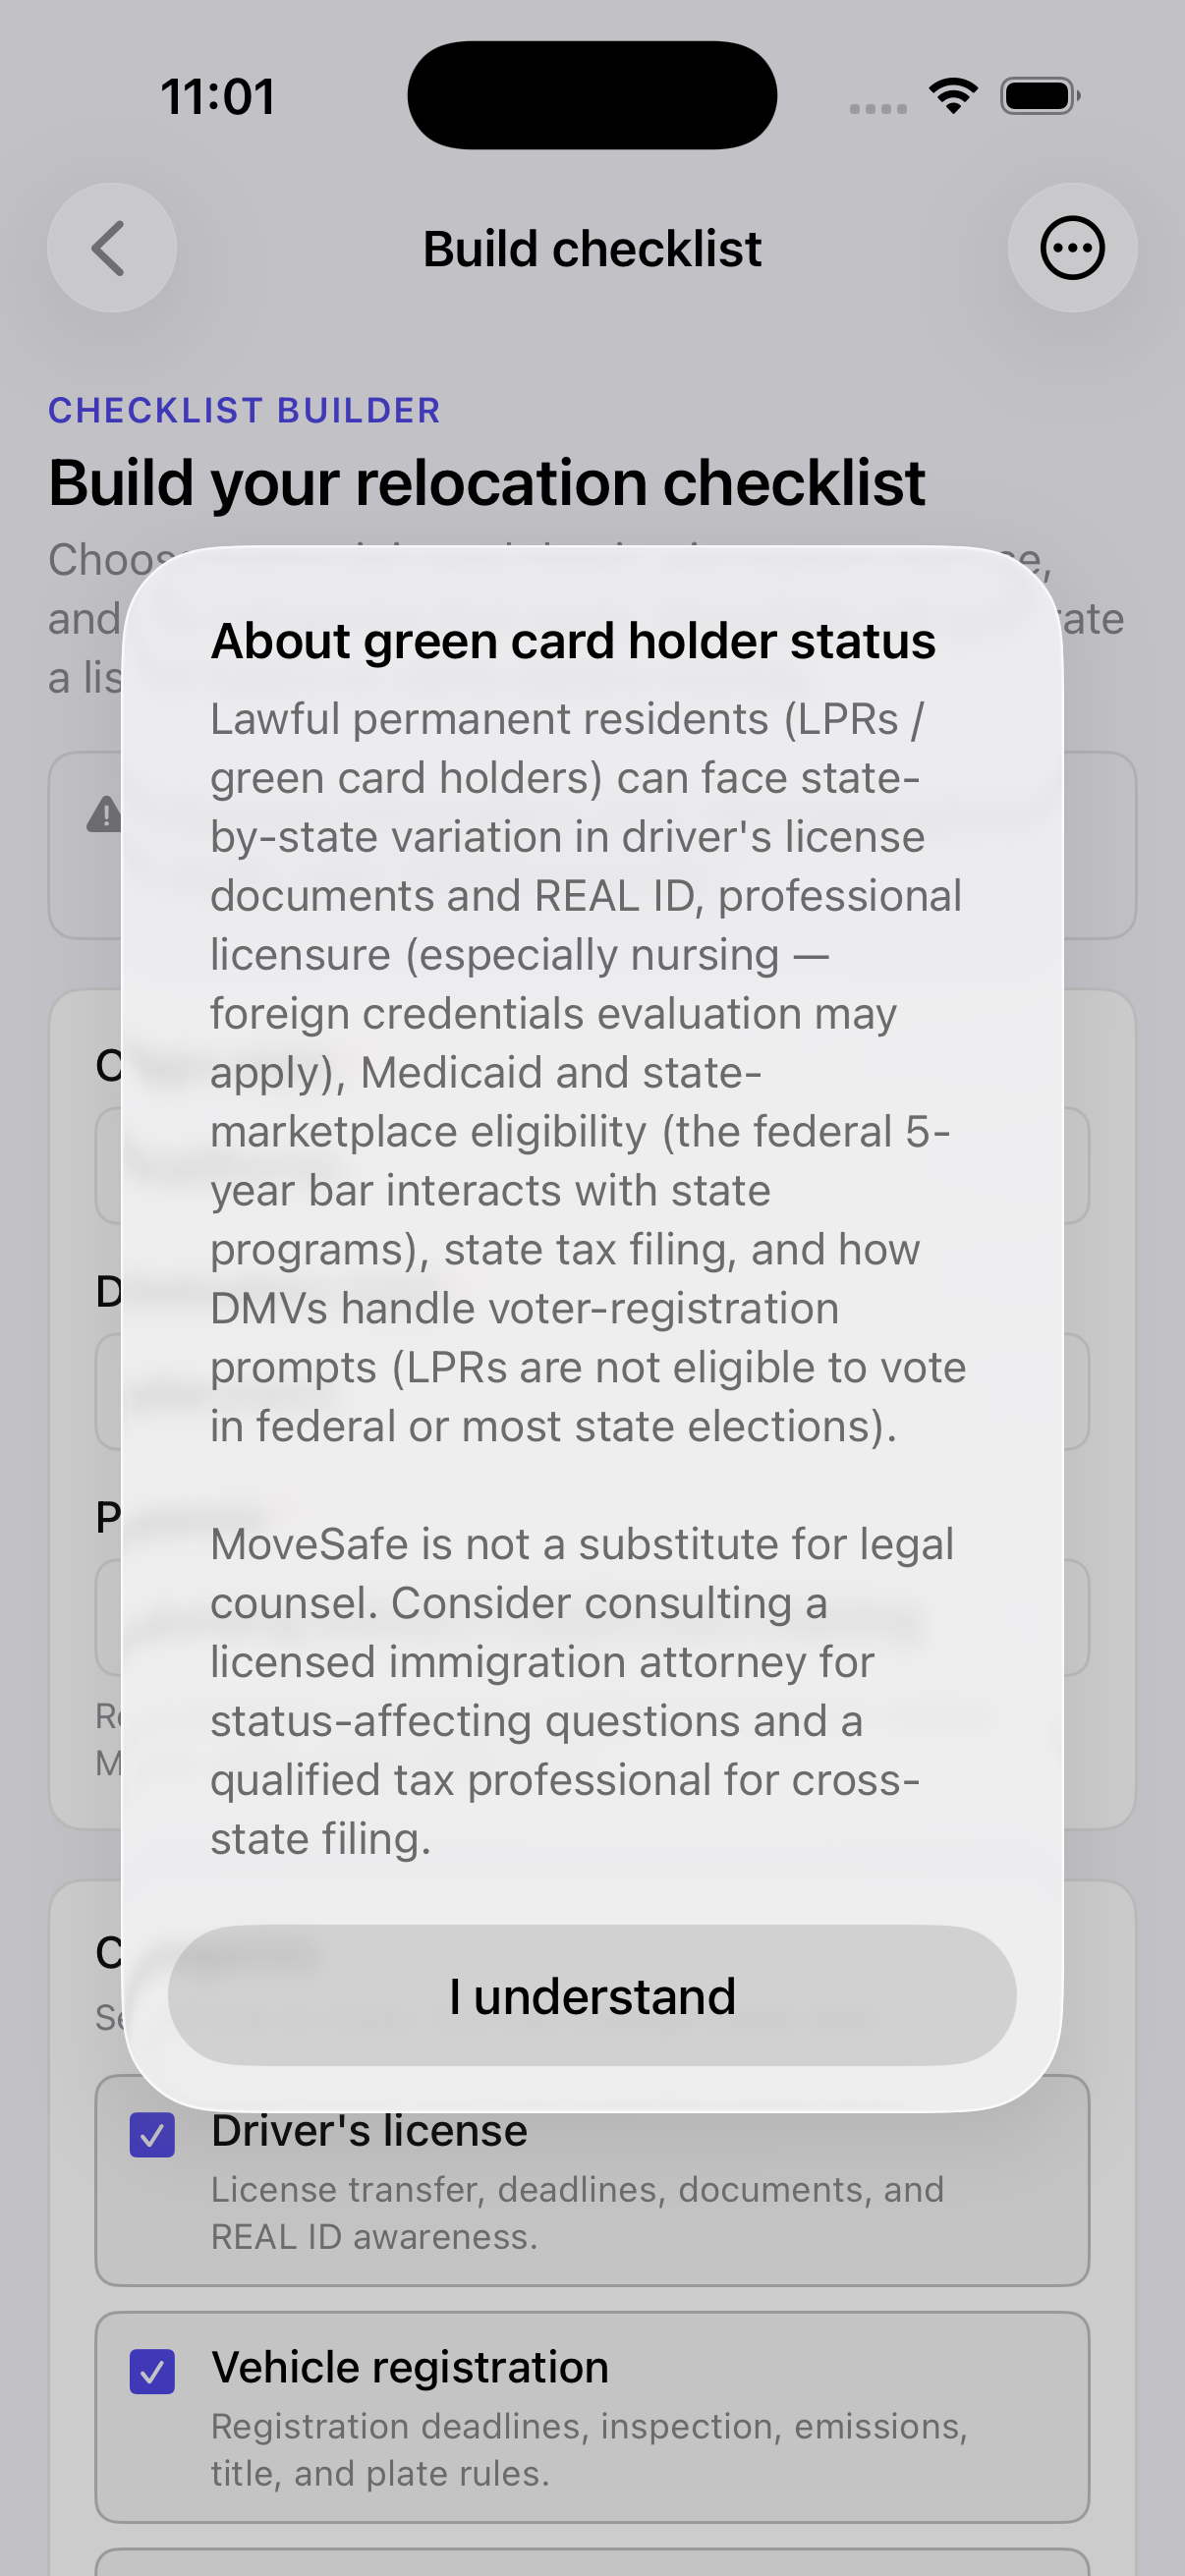
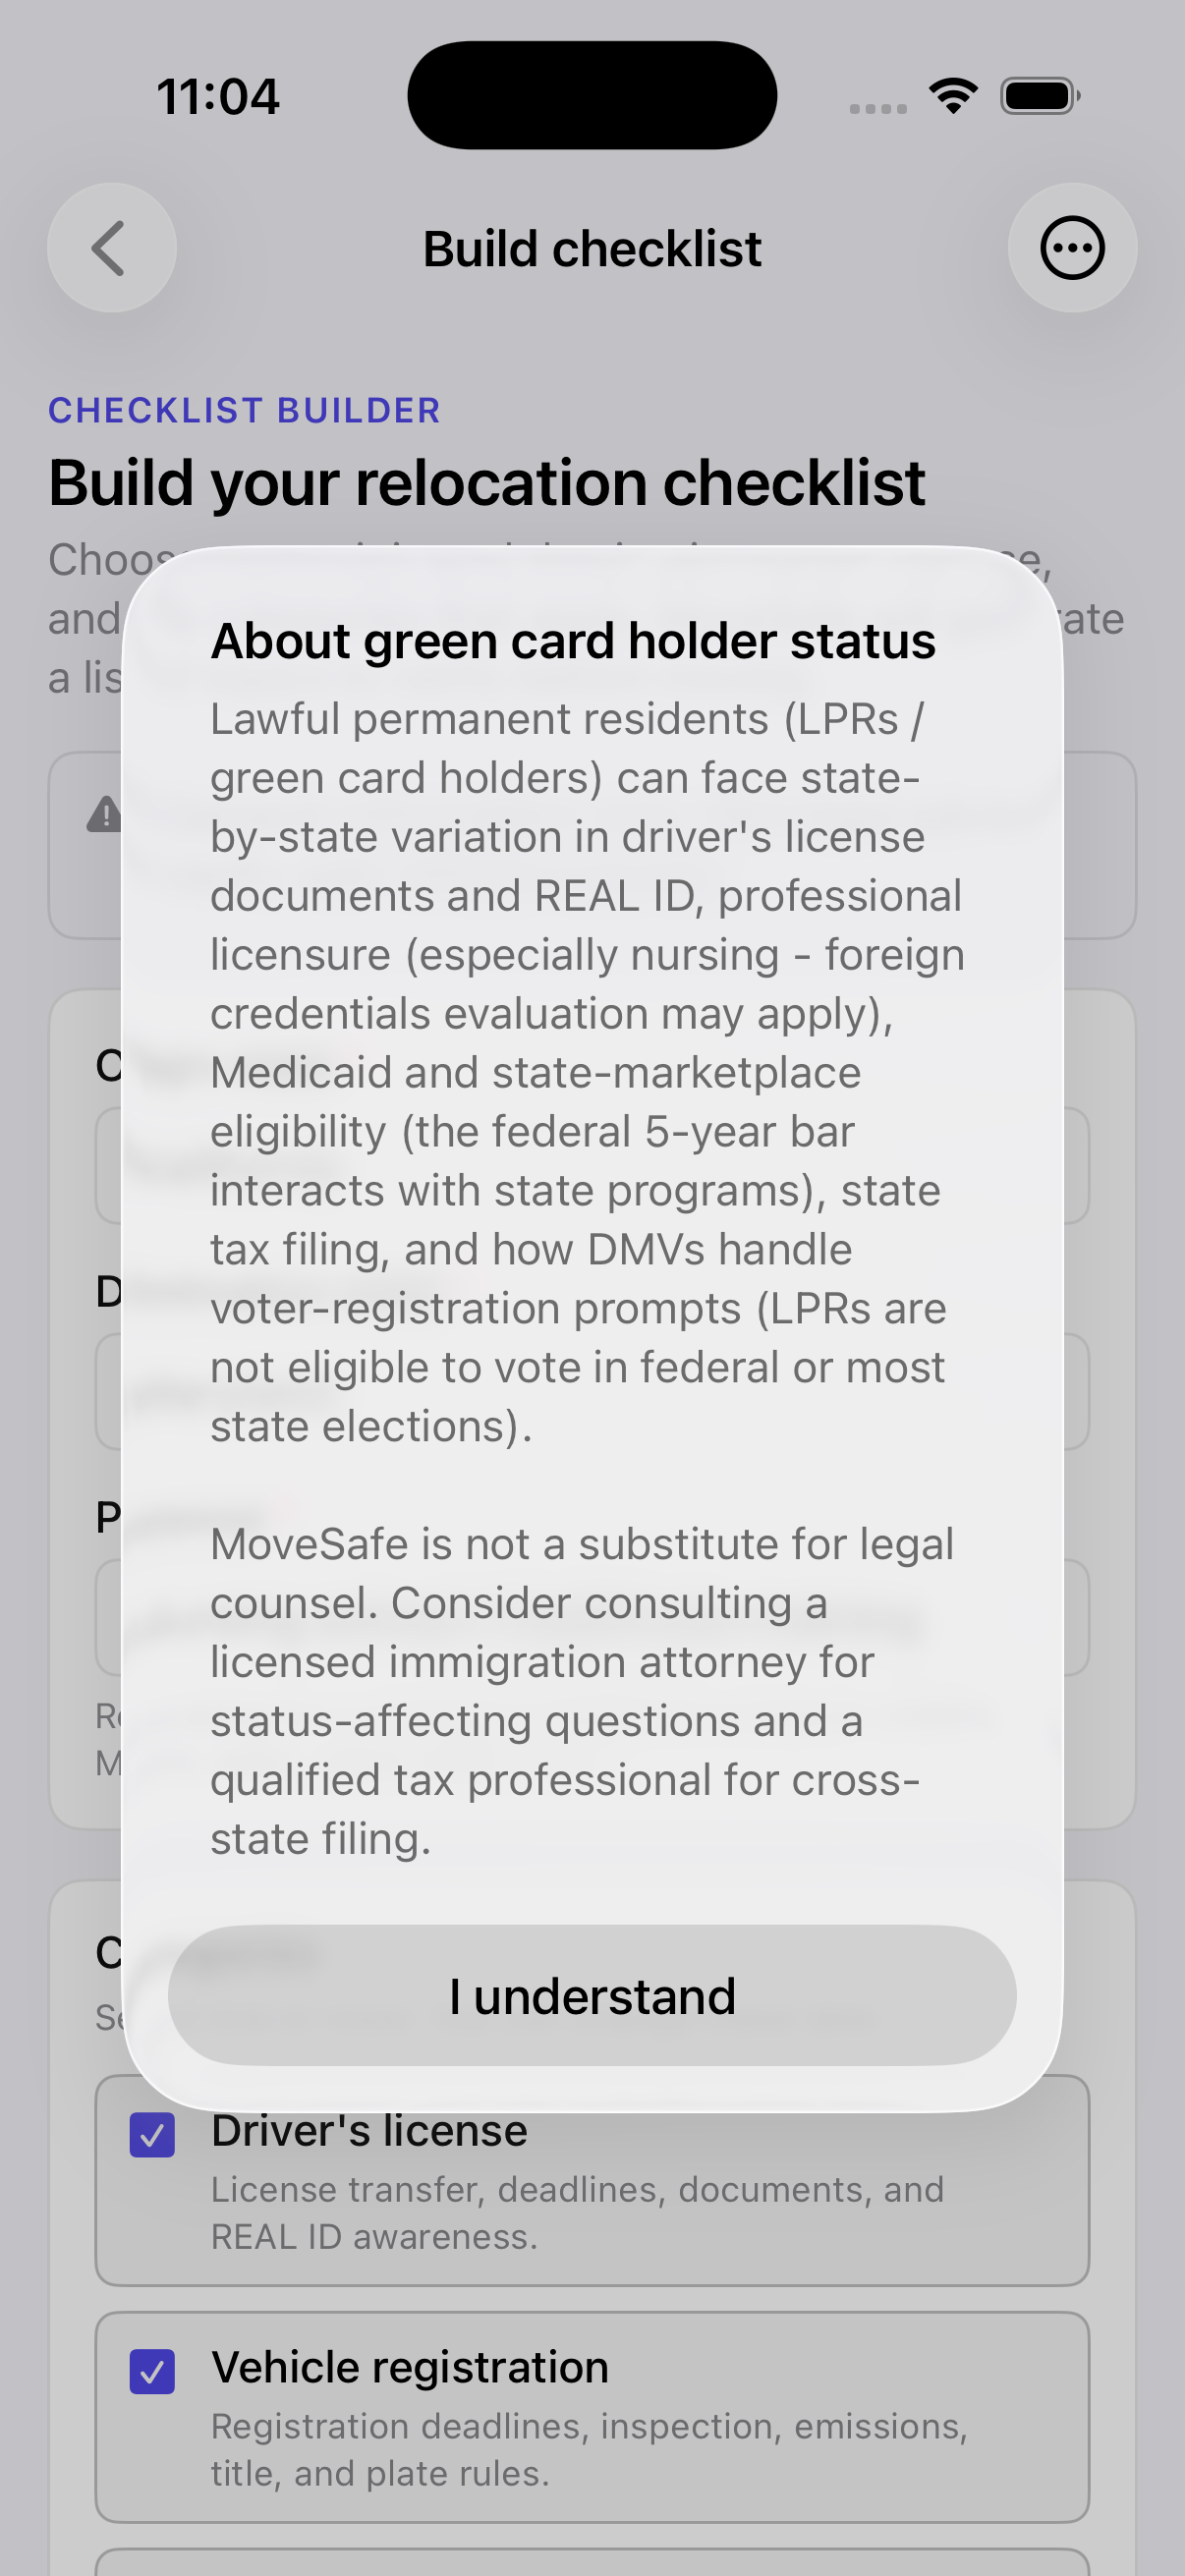
Replace all em dashes with hyphens
Project-wide mechanical substitution: U+2014 (em dash) -> U+002D (hyphen-
minus). 63 occurrences across 24 tracked files. Touches comments, copy in
string literals, README prose, and JSON notes. No structural code changes.

Files affected: README.md, ios/README.md, .gitignore, index.html, both
sets of seed-data files, both sets of safeCopy/utility files, several
view files, and the state-URL research JSON.

iOS build re-verified clean. Screenshots 03-results.png, 04-dreamer-alert.png,
and 05-greencard-alert.png regenerated because their rendered text changed.

Changed region(s): [[0.1841, 0.3707, 0.7977, 0.5561], [0.1227, 0.0309, 0.2454, 0.0618]]

diff --git a/ios/Sources/MoveSafe/Data/States.swift b/ios/Sources/MoveSafe/Data/States.swift
@@ -26,7 +26,7 @@ enum States {
     // the URL when the domain is the well-known, long-standing official one.
     //
     // A handful of fields remain "#" placeholders because no canonical URL
-    // could be confirmed in this pass — for example, Hawaii's motor vehicle
+    // could be confirmed in this pass - for example, Hawaii's motor vehicle
     // services are administered at the county level, so there's no single
     // state-wide DMV URL. Each placeholder is documented in `notes`.
 
@@ -131,7 +131,7 @@ enum States {
             taxAgencyUrl: "https://floridarevenue.com",
             housingAgencyUrl: "https://myfloridalegal.com",
             boardOfNursingUrl: "https://floridasnursing.gov",
-            notes: "Driver licensing under FLHSMV. Florida has no personal income tax — floridarevenue.com covers sales / corporate / etc."
+            notes: "Driver licensing under FLHSMV. Florida has no personal income tax - floridarevenue.com covers sales / corporate / etc."
         ),
         Row(
             name: "Georgia", abbreviation: "GA", slug: "georgia",
@@ -149,7 +149,7 @@ enum States {
             taxAgencyUrl: "https://tax.hawaii.gov",
             housingAgencyUrl: "https://ag.hawaii.gov",
             boardOfNursingUrl: "https://cca.hawaii.gov/pvl/boards/nursing",
-            notes: "Motor vehicle services in Hawaii are administered at the county level (Honolulu, Hawaii, Maui, Kauai) — there is no state-wide DMV URL. Nursing under DCCA Professional & Vocational Licensing."
+            notes: "Motor vehicle services in Hawaii are administered at the county level (Honolulu, Hawaii, Maui, Kauai) - there is no state-wide DMV URL. Nursing under DCCA Professional & Vocational Licensing."
         ),
         Row(
             name: "Idaho", abbreviation: "ID", slug: "idaho",
@@ -491,7 +491,7 @@ enum States {
             taxAgencyUrl: "https://www.revenue.wi.gov",
             housingAgencyUrl: "https://www.doj.state.wi.us",
             boardOfNursingUrl: "https://dsps.wi.gov/Pages/Professions/Default.aspx",
-            notes: "Wisconsin nursing licensure under DSPS (Department of Safety and Professional Services); the linked page is the general professions index — navigate to Registered Nurse."
+            notes: "Wisconsin nursing licensure under DSPS (Department of Safety and Professional Services); the linked page is the general professions index - navigate to Registered Nurse."
         ),
         Row(
             name: "Wyoming", abbreviation: "WY", slug: "wyoming",

diff --git a/ios/Sources/MoveSafe/Data/ChecklistItems.swift b/ios/Sources/MoveSafe/Data/ChecklistItems.swift
@@ -2,7 +2,7 @@ import Foundation
 
 // Items are state-agnostic by default. State-specific items can be added later
 // by setting originStateId / destinationStateId. All language follows the
-// safe-copy rules in SafeCopy.swift — no legal conclusions.
+// safe-copy rules in SafeCopy.swift - no legal conclusions.
 enum ChecklistItems {
     static let all: [ChecklistItem] = [
         // -------- Driver's license --------
@@ -349,7 +349,7 @@ enum ChecklistItems {
             title: "Understand how the destination state defines residency",
             slug: "state-residency-factors",
             categoryId: "cat-state-residency",
-            description: "Residency can affect tuition, taxes, licensing, and benefits, and is determined by the relevant state agency, school, or tax authority — not by MoveSafe.",
+            description: "Residency can affect tuition, taxes, licensing, and benefits, and is determined by the relevant state agency, school, or tax authority - not by MoveSafe.",
             whyItMatters: "Different agencies may apply different residency tests. The same person can be a resident for one purpose and not another.",
             whatToVerify: [
                 "How the destination state defines residency",

diff --git a/ios/Sources/MoveSafe/Data/Sources.swift b/ios/Sources/MoveSafe/Data/Sources.swift
@@ -74,7 +74,7 @@ enum Sources {
         ),
         Source(
             id: "src-destination-attorney-general",
-            title: "Official destination state attorney general — tenant resources",
+            title: "Official destination state attorney general - tenant resources",
             url: "#",
             sourceType: .placeholder,
             jurisdictionType: .stateLaw,
@@ -100,7 +100,7 @@ enum Sources {
         ),
         Source(
             id: "src-destination-agriculture-pets",
-            title: "Official destination state department of agriculture — pet entry",
+            title: "Official destination state department of agriculture - pet entry",
             url: "#",
             sourceType: .placeholder,
             jurisdictionType: .agencyRule,

diff --git a/ios/Sources/MoveSafe/Engine/ChecklistEngine.swift b/ios/Sources/MoveSafe/Engine/ChecklistEngine.swift
@@ -63,7 +63,7 @@ enum ChecklistEngine {
         // Attach sources with computed staleness, resolving any state-bound URLs
         // against the origin / destination states. When a binding resolves to a
         // real state URL (i.e. the state had a non-placeholder value for that
-        // field), upgrade the source status to CURRENT — it was verified during
+        // field), upgrade the source status to CURRENT - it was verified during
         // the research run that populated those URLs.
         let withSources: [ChecklistItemWithSources] = filtered.map { item in
             let attached = item.sourceIds
@@ -138,7 +138,7 @@ enum ChecklistEngine {
 
         if input.originStateId == input.destinationStateId {
             warnings.insert(
-                "Origin and destination are the same. MoveSafe is designed for state-to-state moves — some items may not apply.",
+                "Origin and destination are the same. MoveSafe is designed for state-to-state moves - some items may not apply.",
                 at: 0
             )
         }

diff --git a/ios/Sources/MoveSafe/Views/Builder/BuilderView.swift b/ios/Sources/MoveSafe/Views/Builder/BuilderView.swift
@@ -55,12 +55,12 @@ struct BuilderView: View {
         .alert("About Dreamer status", isPresented: $showDreamerAlert) {
             Button("I understand") { }
         } message: {
-            Text("Immigration status — including Dreamer / DACA status — can significantly affect driver's licenses and REAL ID, professional licensure (especially nursing and healthcare), in-state tuition, SSN-related requirements, and state tax filing. Rules vary by state and federal law and change frequently.\n\nMoveSafe is not a substitute for legal counsel. Consider consulting a licensed immigration attorney before relying on any state-by-state summary.")
+            Text("Immigration status - including Dreamer / DACA status - can significantly affect driver's licenses and REAL ID, professional licensure (especially nursing and healthcare), in-state tuition, SSN-related requirements, and state tax filing. Rules vary by state and federal law and change frequently.\n\nMoveSafe is not a substitute for legal counsel. Consider consulting a licensed immigration attorney before relying on any state-by-state summary.")
         }
         .alert("About green card holder status", isPresented: $showGreenCardAlert) {
             Button("I understand") { }
         } message: {
-            Text("Lawful permanent residents (LPRs / green card holders) can face state-by-state variation in driver's license documents and REAL ID, professional licensure (especially nursing — foreign credentials evaluation may apply), Medicaid and state-marketplace eligibility (the federal 5-year bar interacts with state programs), state tax filing, and how DMVs handle voter-registration prompts (LPRs are not eligible to vote in federal or most state elections).\n\nMoveSafe is not a substitute for legal counsel. Consider consulting a licensed immigration attorney for status-affecting questions and a qualified tax professional for cross-state filing.")
+            Text("Lawful permanent residents (LPRs / green card holders) can face state-by-state variation in driver's license documents and REAL ID, professional licensure (especially nursing - foreign credentials evaluation may apply), Medicaid and state-marketplace eligibility (the federal 5-year bar interacts with state programs), state tax filing, and how DMVs handle voter-registration prompts (LPRs are not eligible to vote in federal or most state elections).\n\nMoveSafe is not a substitute for legal counsel. Consider consulting a licensed immigration attorney for status-affecting questions and a qualified tax professional for cross-state filing.")
         }
         .toolbar {
             ToolbarItem(placement: .topBarTrailing) {

diff --git a/src/lib/data/checklistItems.ts b/src/lib/data/checklistItems.ts
@@ -4,7 +4,7 @@ const NOW = "2026-05-17T00:00:00.000Z";
 
 // Items are state-agnostic by default. State-specific items can be added later
 // by setting originStateId / destinationStateId. All language follows the
-// safe-copy rules in src/lib/utils/safeCopy.ts — no legal conclusions.
+// safe-copy rules in src/lib/utils/safeCopy.ts - no legal conclusions.
 export const checklistItems: ChecklistItem[] = [
   // -------- Driver's license --------
   {
@@ -407,7 +407,7 @@ export const checklistItems: ChecklistItem[] = [
     slug: "state-residency-factors",
     categoryId: "cat-state-residency",
     description:
-      "Residency can affect tuition, taxes, licensing, and benefits, and is determined by the relevant state agency, school, or tax authority — not by MoveSafe.",
+      "Residency can affect tuition, taxes, licensing, and benefits, and is determined by the relevant state agency, school, or tax authority - not by MoveSafe.",
     whyItMatters:
       "Different agencies may apply different residency tests. The same person can be a resident for one purpose and not another.",
     whatToVerify: [

diff --git a/src/lib/data/sources.ts b/src/lib/data/sources.ts
@@ -87,7 +87,7 @@ export const sources: Source[] = [
   },
   {
     id: "src-destination-attorney-general",
-    title: "Official destination state attorney general — tenant resources",
+    title: "Official destination state attorney general - tenant resources",
     url: "#",
     sourceType: "PLACEHOLDER",
     jurisdictionType: "STATE_LAW",
@@ -116,7 +116,7 @@ export const sources: Source[] = [
   },
   {
     id: "src-destination-agriculture-pets",
-    title: "Official destination state department of agriculture — pet entry",
+    title: "Official destination state department of agriculture - pet entry",
     url: "#",
     sourceType: "PLACEHOLDER",
     jurisdictionType: "AGENCY_RULE",

diff --git a/index.html b/index.html
@@ -7,7 +7,7 @@
       name="description"
       content="MoveSafe is a source-first state-to-state relocation checklist. General information only, not legal advice."
     />
-    <title>MoveSafe — Cross-state relocation checklist</title>
+    <title>MoveSafe - Cross-state relocation checklist</title>
   </head>
   <body class="bg-slate-50 text-slate-900 antialiased">
     <div id="root"></div>

diff --git a/ios/Sources/MoveSafe/ContentView.swift b/ios/Sources/MoveSafe/ContentView.swift
@@ -30,7 +30,7 @@ struct ContentView: View {
 
     /// Deep-links the app to a specific screen when launched with a
     /// `--screenshot-*` argument. Used by tooling that captures simulator
-    /// screenshots for the README — no effect under normal launch.
+    /// screenshots for the README - no effect under normal launch.
     private func applyScreenshotLaunchArgs() {
         let args = ProcessInfo.processInfo.arguments
         if args.contains("--screenshot-results") {

diff --git a/ios/Sources/MoveSafe/Engine/ChecklistExport.swift b/ios/Sources/MoveSafe/Engine/ChecklistExport.swift
@@ -41,7 +41,7 @@ enum ChecklistExport {
                     out.append("  Sources:")
                     for line in officialUrls { out.append(line) }
                 } else if !entry.sources.isEmpty {
-                    out.append("  Sources: placeholder — verify with the relevant official agency.")
+                    out.append("  Sources: placeholder - verify with the relevant official agency.")
                 }
                 out.append("")
             }

diff --git a/ios/Sources/MoveSafe/Models/Enums.swift b/ios/Sources/MoveSafe/Models/Enums.swift
@@ -26,7 +26,7 @@ enum RiskLevel: String, CaseIterable, Codable, Identifiable {
         case .high:
             return "May involve penalties, licensing consequences, or major state-by-state differences."
         case .verifySeparately:
-            return "Rules vary substantially. Do not rely on this app — verify directly with official sources."
+            return "Rules vary substantially. Do not rely on this app - verify directly with official sources."
         }
     }
 

diff --git a/ios/Sources/MoveSafe/Models/Models.swift b/ios/Sources/MoveSafe/Models/Models.swift
@@ -137,7 +137,7 @@ struct ChecklistItemWithSources: Identifiable, Hashable {
 }
 
 /// A source plus its computed status at a given reference date. `resolvedUrl`
-/// is the URL to actually display — either the source's literal `url` or, when
+/// is the URL to actually display - either the source's literal `url` or, when
 /// `source.stateUrlBinding` is set, the matching URL pulled from the origin /
 /// destination state.
 struct SourceWithStatus: Identifiable, Hashable {